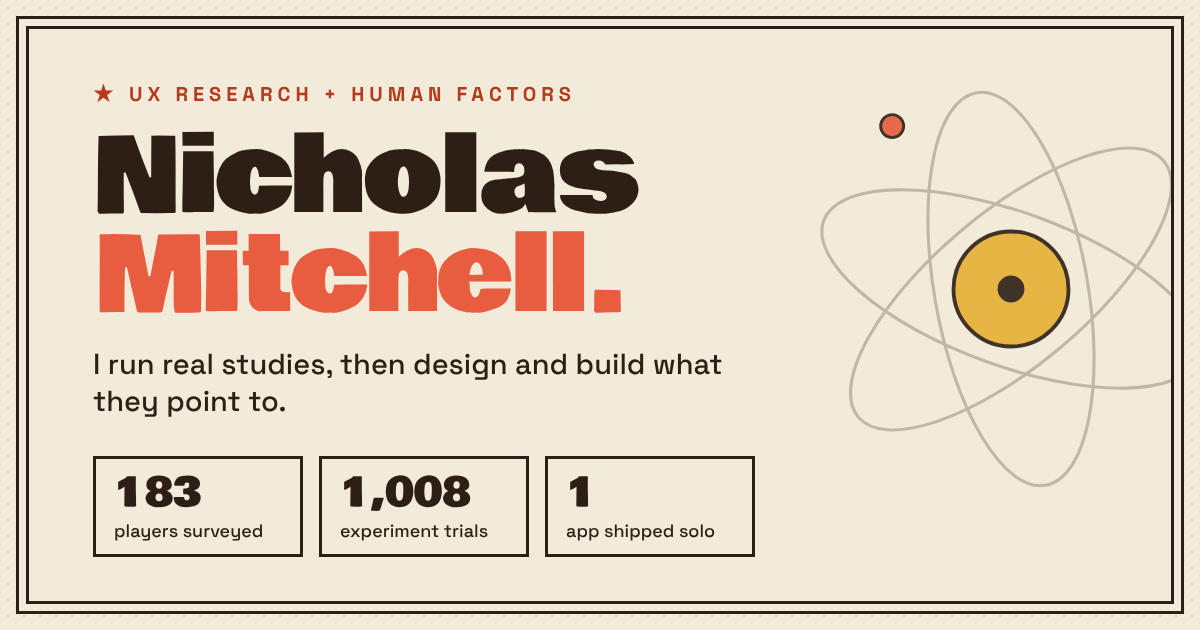
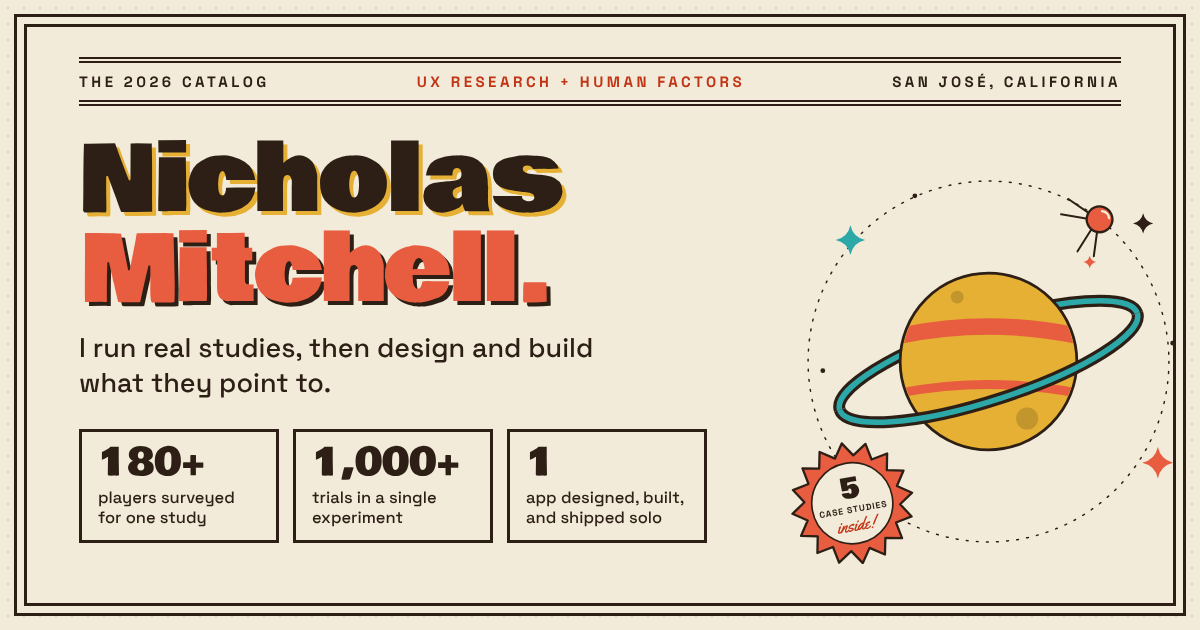
Link preview: catalog cover look, rounded numbers to match home
Claude-Session: https://claude.ai/code/session_01QfWsWaY32VY7mVLAMaXanr

diff --git a/app/layout.tsx b/app/layout.tsx
@@ -15,7 +15,7 @@ export const metadata: Metadata = {
     siteName: 'Nicholas Mitchell',
     title: 'Nicholas Mitchell — UX Research + Human Factors',
     description: DESCRIPTION,
-    images: [{ url: '/og.png', width: 1200, height: 630, alt: 'Nicholas Mitchell, UX research and human factors. 183 players surveyed, 1,008 experiment trials, 1 app shipped solo.' }],
+    images: [{ url: '/og.png', width: 1200, height: 630, alt: 'Nicholas Mitchell, UX research and human factors. 180+ players surveyed for one study, 1,000+ trials in a single experiment, 1 app designed, built, and shipped solo.' }],
   },
   twitter: {
     card: 'summary_large_image',
